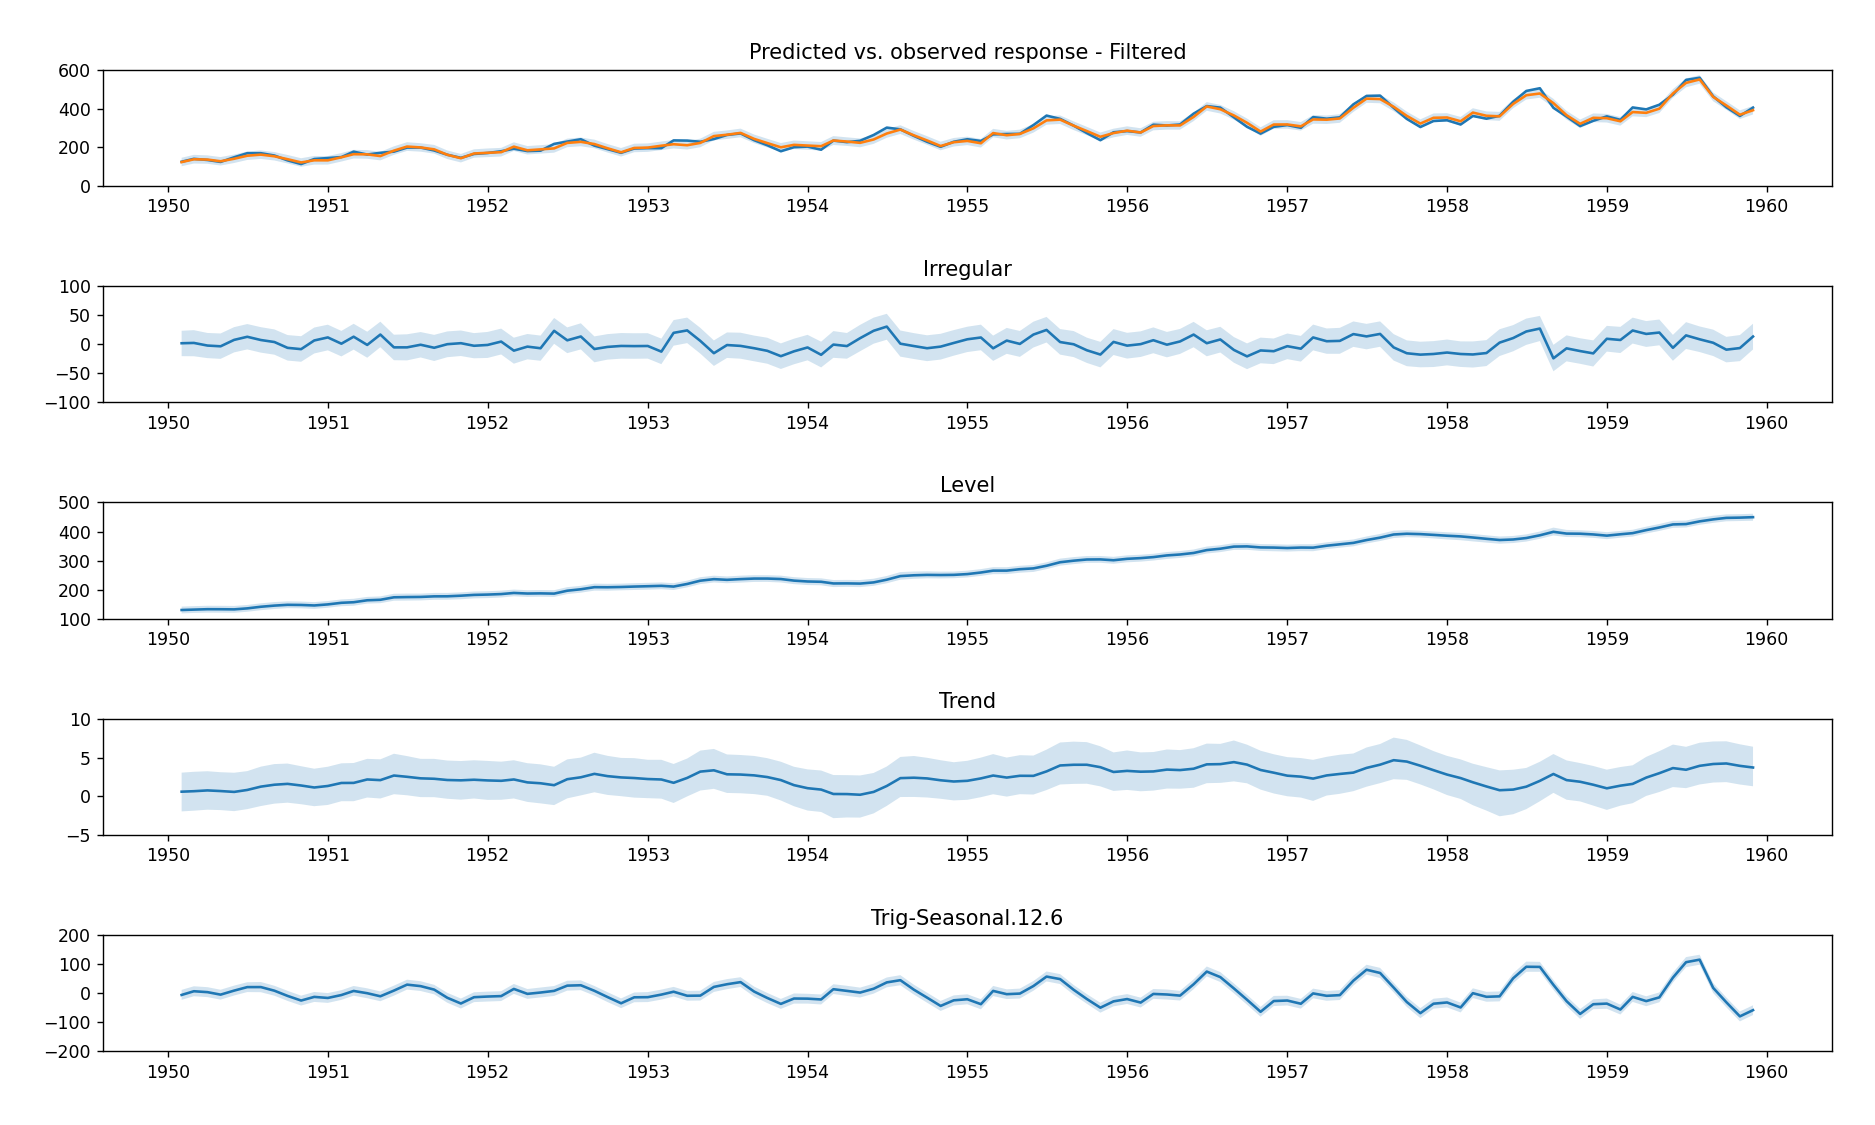
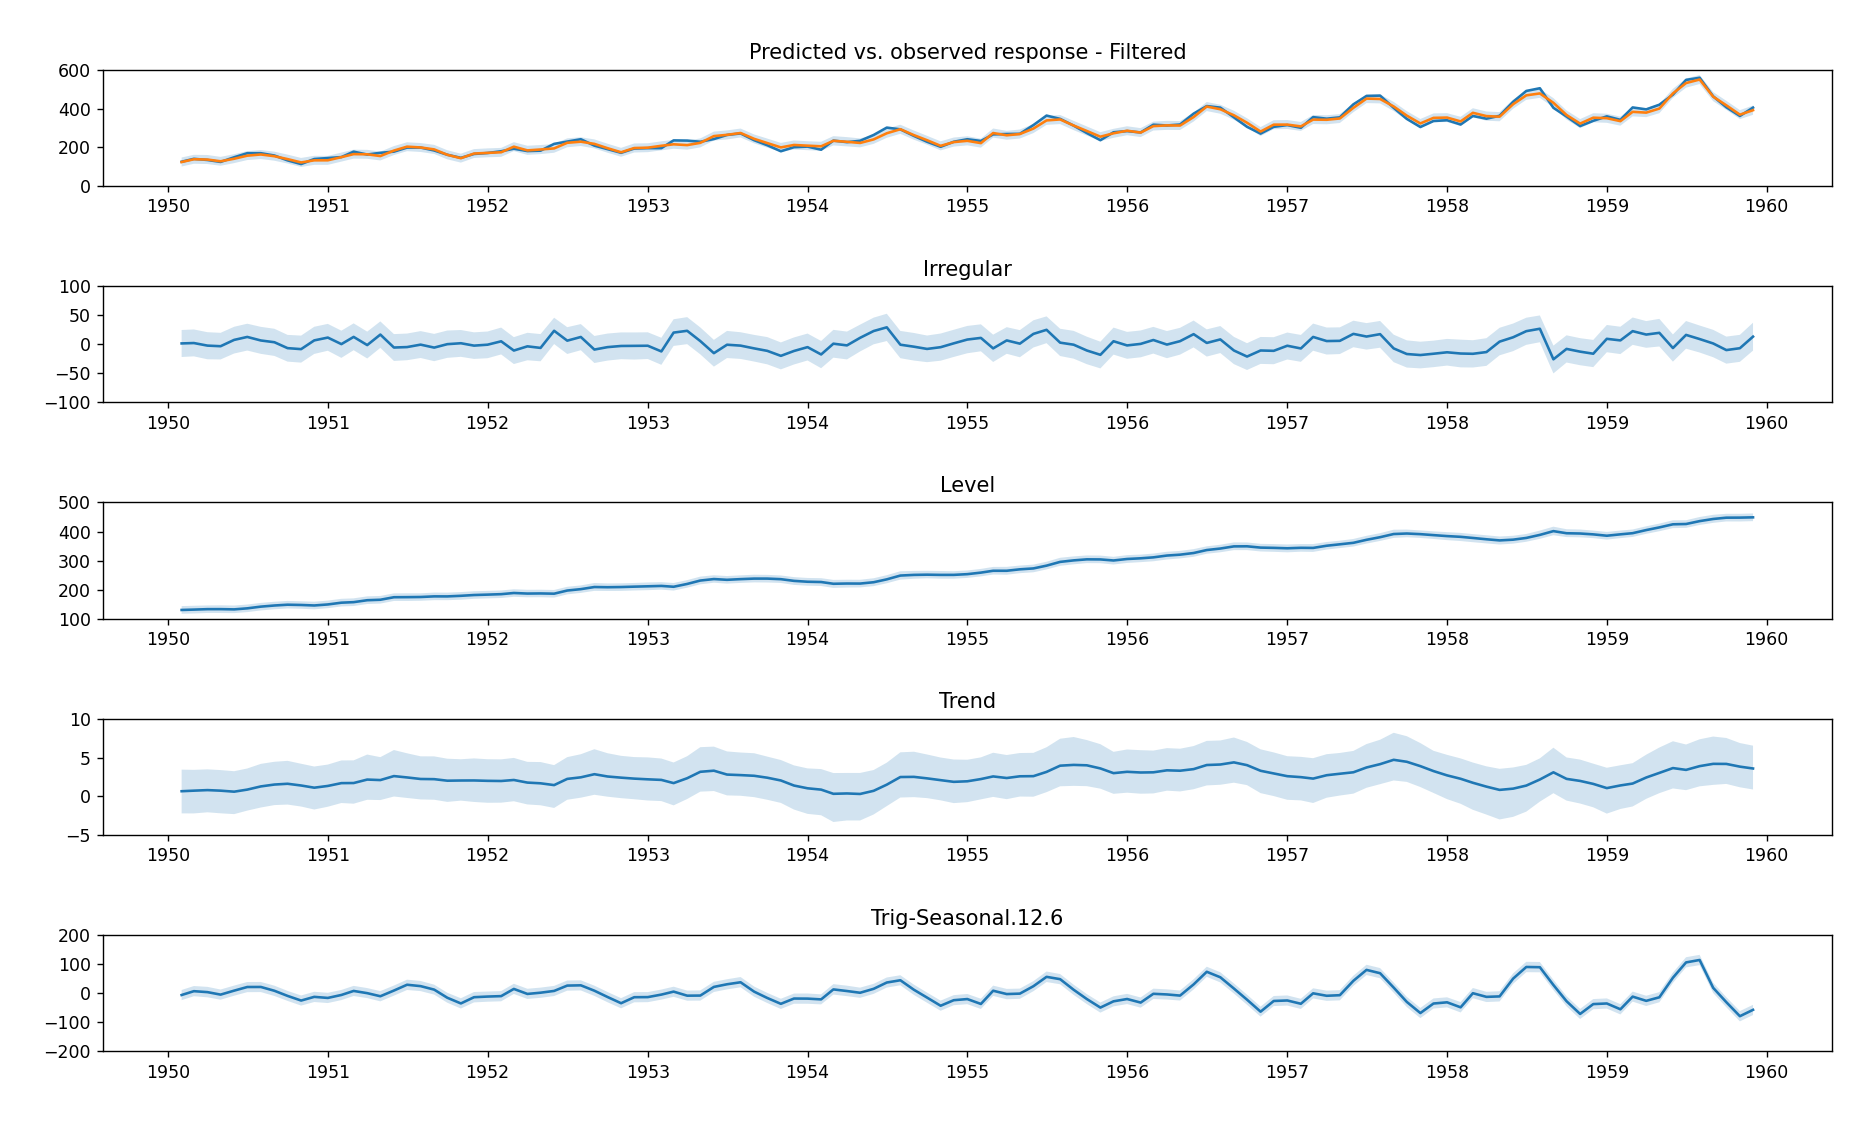
Update to default variance priors - Default shape priors reverted to 0.01 for level, response, and seasonal components. Default shape prior for trend is 0.5 - Default scale priors are multiplied by (1 + shape prior) to ensure a mode suggestive of the desired scale prior.

diff --git a/pybuc/buc.py b/pybuc/buc.py
@@ -1705,11 +1705,11 @@ class BayesianUnobservedComponents:
         n = self.num_obs
         q = self.num_stoch_states
         m = self.num_state_eqs
-        default_shape_prior = 3.0
+        default_shape_prior = 0.01
 
         if scale_response:
             y = self._scale_response(self.response)
-            default_root_scale = 0.01 * (default_shape_prior - 1.0)
+            default_root_scale = 0.01
             scaler = self.response_scale
             if back_transform:
                 back_tform_resp_scaler = self.response_scale
@@ -1717,7 +1717,7 @@ class BayesianUnobservedComponents:
                 back_tform_resp_scaler = 1.0
         else:
             y = self.response
-            default_root_scale = 0.01 * (default_shape_prior - 1.0) * self.response_scale
+            default_root_scale = 0.01 * self.response_scale
             scaler, back_tform_resp_scaler = 1.0, 1.0
 
         back_tform_pred_scaler = None
@@ -1777,7 +1777,10 @@ class BayesianUnobservedComponents:
         if response_var_shape_prior is None:
             response_var_shape_prior = default_shape_prior
         if response_var_scale_prior is None:
-            response_var_scale_prior = default_root_scale ** 2
+            response_var_scale_prior = (
+                    default_root_scale ** 2
+                    * (1 + default_shape_prior)
+            )
         else:
             response_var_scale_prior = response_var_scale_prior / scaler ** 2
 
@@ -1797,7 +1800,10 @@ class BayesianUnobservedComponents:
                     level_var_shape_prior = default_shape_prior
 
                 if level_var_scale_prior is None:
-                    level_var_scale_prior = default_root_scale ** 2
+                    level_var_scale_prior = (
+                            default_root_scale ** 2
+                            * (1 + default_shape_prior)
+                    )
                 else:
                     level_var_scale_prior = level_var_scale_prior / scaler ** 2
 
@@ -1865,10 +1871,13 @@ class BayesianUnobservedComponents:
                 trend_params.append("Trend.Var")
 
                 if trend_var_shape_prior is None:
-                    trend_var_shape_prior = default_shape_prior
+                    trend_var_shape_prior = default_shape_prior * 50.
 
                 if trend_var_scale_prior is None:
-                    trend_var_scale_prior = (0.25 * default_root_scale) ** 2
+                    trend_var_scale_prior = (
+                            (0.25 * default_root_scale) ** 2
+                            * (1 + default_shape_prior * 50.)
+                    )
                 else:
                     trend_var_scale_prior = trend_var_scale_prior / scaler ** 2
 
@@ -1968,7 +1977,7 @@ class BayesianUnobservedComponents:
                     state_var_shape_post.append(shape_prior + 0.5 * n)
 
                     if lag_season_var_scale_prior is None:
-                        scale_prior = default_root_scale ** 2
+                        scale_prior = default_root_scale ** 2 * (1 + default_shape_prior)
                     else:
                         scale_prior = lag_season_var_scale_prior[c] / scaler ** 2
 
@@ -2040,7 +2049,7 @@ class BayesianUnobservedComponents:
                     state_var_shape_post.append(shape_prior + 0.5 * n)
 
                     if dum_season_var_scale_prior is None:
-                        scale_prior = default_root_scale ** 2
+                        scale_prior = default_root_scale ** 2 * (1 + default_shape_prior)
                     else:
                         scale_prior = dum_season_var_scale_prior[c] / scaler ** 2
 
@@ -2100,7 +2109,7 @@ class BayesianUnobservedComponents:
                     state_var_shape_post.append(shape_prior + 0.5 * n * num_eqs)
 
                     if trig_season_var_scale_prior is None:
-                        scale_prior = default_root_scale ** 2 / num_eqs
+                        scale_prior = default_root_scale ** 2 * (1 + default_shape_prior) / num_eqs
                     else:
                         scale_prior = trig_season_var_scale_prior[c] / scaler ** 2 / num_eqs
 
@@ -2529,16 +2538,16 @@ class BayesianUnobservedComponents:
         removes all non-stationary draws from the posterior. Default is False.
 
         :param response_var_shape_prior: int, float > 0. Specifies the inverse-Gamma shape prior for the
-        response error variance. Default is 3.
+        response error variance. Default is 0.01.
 
         :param response_var_scale_prior: int, float > 0. Specifies the inverse-Gamma scale prior for the
-        response error variance. Default is (0.01 * (3 - 1) * std(response))^2.
+        response error variance. Default is (0.01 * std(response))^2 * 1.01.
 
         :param level_var_shape_prior: int, float > 0. Specifies the inverse-Gamma shape prior for the
-        level state equation error variance. Default is 3.
+        level state equation error variance. Default is 0.01.
 
         :param level_var_scale_prior: int, float > 0. Specifies the inverse-Gamma scale prior for the
-        level state equation error variance. (0.01 * (3 - 1) * std(response))^2.
+        level state equation error variance. (0.01 * std(response))^2 * 1.01.
 
         :param damped_level_coeff_mean_prior: Numpy array, list, or tuple. Specifies the prior
         mean for the coefficient governing the level's AR(1) process without drift. Default is [[1.]].
@@ -2548,10 +2557,10 @@ class BayesianUnobservedComponents:
         Default is [[1.]].
 
         :param trend_var_shape_prior: int, float > 0. Specifies the inverse-Gamma shape prior for the
-        trend state equation error variance. Default is 3.
+        trend state equation error variance. Default is 0.5.
 
         :param trend_var_scale_prior: int, float > 0. Specifies the inverse-Gamma scale prior for the
-        trend state equation error variance. Default is (0.25 * 0.01 * (3 - 1) * std(response))^2.
+        trend state equation error variance. Default is (0.25 * 0.01 * std(response))^2 * 1.5.
 
         :param damped_trend_coeff_mean_prior: Numpy array, list, or tuple. Specifies the prior
         mean for the coefficient governing the trend's AR(1) process without drift. Default is [[1.]].
@@ -2562,11 +2571,11 @@ class BayesianUnobservedComponents:
 
         :param lag_season_var_shape_prior: tuple of int, float > 0 with s elements, where s is the number of
         stochastic periodicities. Specifies the inverse-Gamma shape priors for each periodicity in lag_seasonal.
-        Default is 3 for each periodicity.
+        Default is 0.01 for each periodicity.
 
         :param lag_season_var_scale_prior: tuple of int, float > 0 with s elements, where s is the number of
         stochastic periodicities. Specifies the inverse-Gamma scale priors for each periodicity in lag_seasonal.
-        Default is (0.01 * (3 - 1) * std(response))^2 for each periodicity.
+        Default is (0.01 * std(response))^2 * 1.01 for each periodicity.
 
         :param damped_lag_season_coeff_mean_prior: Numpy array, list, or tuple with s elements, where s is the
         number of stochastic periodicities with damping specified. Specifies the prior mean for the coefficient
@@ -2579,23 +2588,23 @@ class BayesianUnobservedComponents:
 
         :param dum_season_var_shape_prior: tuple of int, float > 0 with s elements, where s is the number of
         stochastic periodicities. Specifies the inverse-Gamma shape priors for each periodicity in dummy_seasonal.
-        Default is 3 for each periodicity.
+        Default is 0.01 for each periodicity.
 
         :param dum_season_var_scale_prior: tuple of int, float > 0 with s elements, where s is the number of
         stochastic periodicities. Specifies the inverse-Gamma scale priors for each periodicity in dummy_seasonal.
-        Default is (0.01 * (3 - 1) * std(response))^2 for each periodicity.
+        Default is (0.01 * std(response))^2 * 1.01 for each periodicity.
 
         :param trig_season_var_shape_prior: tuple of int, float > 0 with s elements, where s is the number of
         stochastic periodicities. Specifies the inverse-Gamma shape priors for each periodicity in trig_seasonal.
         For example, if trig_seasonal = ((12, 3), (10, 2)) and stochastic_trig_seasonal = (True, False), only one
         shape prior needs to be specified, namely for periodicity 12.
-        Default is 3 for each periodicity.
+        Default is 0.01 for each periodicity.
 
         :param trig_season_var_scale_prior: tuple of int, float > 0 with s elements, where s is the number of
         stochastic periodicities. Specifies the inverse-Gamma scale priors for each periodicity in trig_seasonal.
         For example, if trig_seasonal = ((12, 3), (10, 2)) and stochastic_trig_seasonal = (True, False), only two
         scale priors need to be specified, namely periodicity 12.
-        Default is (0.01 * (3 - 1 ) * std(response))^2 / # of state equations for each periodicity. Note that whatever
+        Default is (0.01 * std(response))^2 * 1.01 / # of state equations for each periodicity. Note that whatever
         value is passed to trig_season_var_scale_prior is automatically scaled by the number of state
         equations implied by the periodicity and number of harmonics.
 

diff --git a/README.md b/README.md
@@ -280,7 +280,7 @@ print(f"BAYES-UC RMSE: {rmse(y_test.to_numpy(), forecast_mean)}")
 ```
 
 ```
-BAYES-UC RMSE: 17.69810613398663
+BAYES-UC RMSE: 17.620844323566658
 ```
 
 The Bayesian Unobserved Components forecast plot, components plot, and RMSE are shown below.
@@ -455,7 +455,7 @@ Back-transformation can be managed with the `back_transform` argument in the `sa
 The default prior for irregular variance is:
 
 $$
-\sigma^2_{\mathrm{irregular}} \sim \mathrm{IG}(3, (0.01 * (3 - 1) * \mathrm{Std.Dev}(y))^2)
+\sigma^2_{\mathrm{irregular}} \sim \mathrm{IG}(0.01, (0.01 * \mathrm{Std.Dev}(y))^2 * 1.01)
 $$
 
 If no priors are given for variances corresponding to stochastic states (i.e., level, trend, and seasonality), 
@@ -463,21 +463,20 @@ the following defaults are used:
 
 $$
 \begin{align}
-    \sigma^2_{\mathrm{level}} &\sim \mathrm{IG}(3, (0.01 * (3 - 1) * \mathrm{Std.Dev}(y))^2) \\
-    \sigma^2_{\mathrm{seasonal}} &\sim \mathrm{IG}(3, (0.01 * (3 - 1) * \mathrm{Std.Dev}(y))^2) \\
-    \sigma^2_{\mathrm{trend}} &\sim \mathrm{IG}(3, (0.25 * 0.01 * (3 - 1) * \mathrm{Std.Dev}(y))^2) \\
+    \sigma^2_{\mathrm{level}} &\sim \mathrm{IG}(0.01, (0.01 * \mathrm{Std.Dev}(y))^2 * 1.01) \\
+    \sigma^2_{\mathrm{seasonal}} &\sim \mathrm{IG}(0.01, (0.01 * \mathrm{Std.Dev}(y))^2 * 1.01) \\
+    \sigma^2_{\mathrm{trend}} &\sim \mathrm{IG}(0.5, (0.25 * 0.01 * \mathrm{Std.Dev}(y))^2 * 1.5) \\
 \end{align}
 $$
 
-These priors differ from the defaults in R's `bsts` package. Each shape value is 3 instead of 0.01 like in `bsts`. This 
-guarantees the existence of a mean and variance for the inverse-gamma distribution, which helps to regularize these 
-parameters. The scale priors for level and seasonality mirror the default scale priors in `bsts` in spirit
-(($0.01 * \mathrm{Std.Dev}(y))^2$). The difference is the factor $(3 - 1)$, which forces the mean of the variance to be 
-$(0.01 * \mathrm{Std.Dev}(y))^2$.
+These priors differ from the defaults in R's `bsts` package. The scale priors for response, level and seasonality 
+variances mirror the default scale priors in `bsts` in spirit (($0.01 * \mathrm{Std.Dev}(y))^2$). The difference is the 
+factor $1.01$, which forces the mode of the prior variance to be $(0.01 * \mathrm{Std.Dev}(y))^2$.
 
 The default prior for trend variance is also more conservative in `pybuc`. This is reflected by a standard deviation 
-that is one-fourth the size (in standard deviation) of the rest of the scale priors. The purpose is to mitigate the 
-impact that noise in the data could have on producing an overly aggressive and/or volatile trend.
+that is one-fourth the size (in standard deviation) of the rest of the scale priors, and a shape prior equal to 0.5. 
+This implies that the mode of the prior trend variance is (0.0025 * \mathrm{Std.Dev}(y))^2. The purpose is to mitigate 
+the impact that noise in the data could have on producing an overly aggressive and/or volatile trend.
 
 **Note that the scale prior for trigonometric seasonality is automatically scaled by the number of state 
 equations implied by the period and number of harmonics. For example, if the trigonometric seasonality scale prior 
